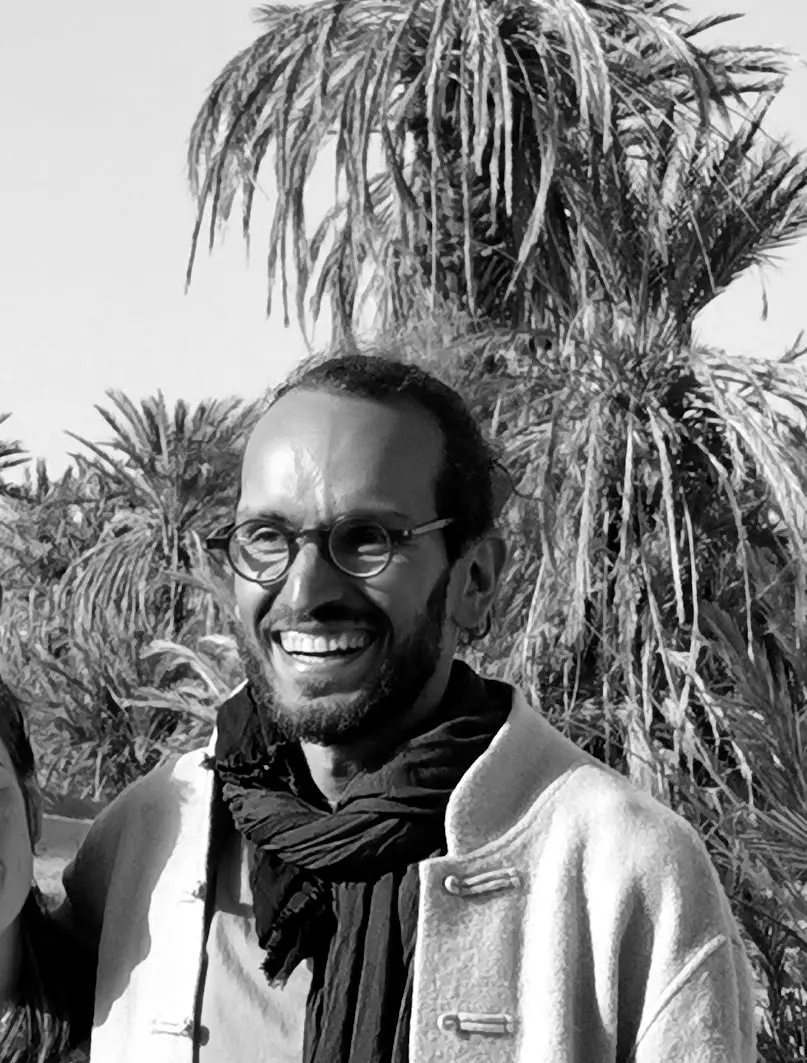
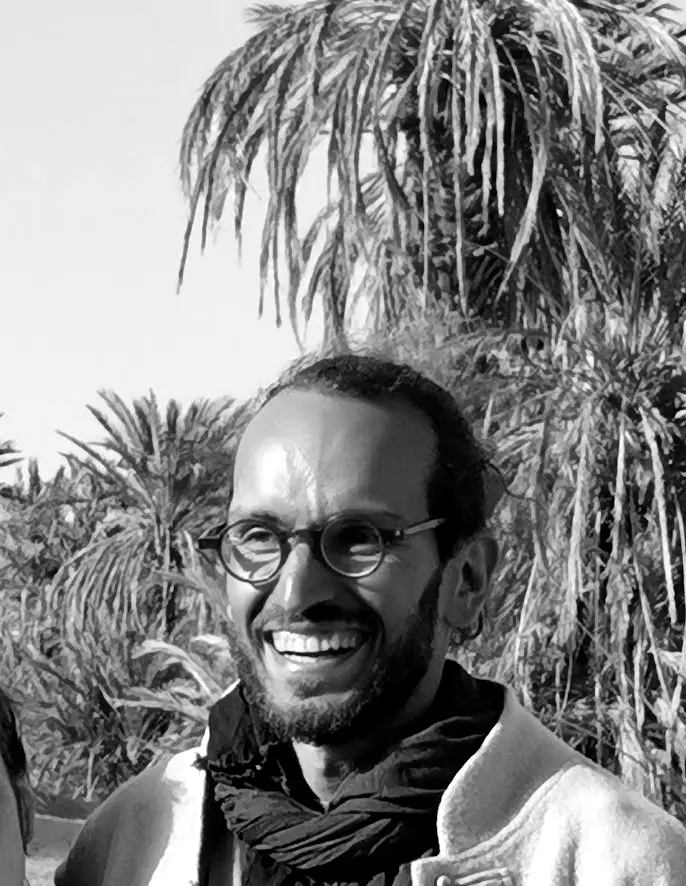
fix: marge noire mobile, burger menu, paddings réduits mobile, photo Anys recadrée

diff --git a/index.html b/index.html
@@ -1165,26 +1165,111 @@
       transform: translateY(0);
     }
 
+    /* BURGER MENU */
+    .burger {
+      display: none;
+      flex-direction: column;
+      gap: 5px;
+      cursor: pointer;
+      padding: 4px;
+      background: none;
+      border: none;
+    }
+    .burger span {
+      display: block;
+      width: 22px;
+      height: 2px;
+      background: var(--cream);
+      transition: all 0.3s ease;
+    }
+    .burger.open span:nth-child(1) { transform: translateY(7px) rotate(45deg); }
+    .burger.open span:nth-child(2) { opacity: 0; }
+    .burger.open span:nth-child(3) { transform: translateY(-7px) rotate(-45deg); }
+
+    .mobile-menu {
+      display: none;
+      position: fixed;
+      top: 64px; left: 0; right: 0;
+      background: rgba(10,9,5,0.98);
+      border-bottom: 1px solid var(--bark);
+      padding: 2rem 1.5rem;
+      z-index: 199;
+      flex-direction: column;
+      gap: 1.5rem;
+    }
+    .mobile-menu.open { display: flex; }
+    .mobile-menu a {
+      font-family: 'Garet', sans-serif;
+      font-size: 0.75rem;
+      letter-spacing: 0.2em;
+      text-transform: uppercase;
+      color: rgba(240,232,213,0.7);
+      text-decoration: none;
+      padding-bottom: 1rem;
+      border-bottom: 1px solid var(--bark);
+    }
+    .mobile-menu a:last-child { border-bottom: none; }
+
     /* RESPONSIVE */
     @media (max-width: 768px) {
-      nav { padding: 1.5rem; }
-      section { padding: 5rem 1.5rem; }
-      .intention { grid-template-columns: 1fr; gap: 3rem; }
-      .intention-aside { border-left: none; border-top: 1px solid var(--bark); padding-left: 0; padding-top: 3rem; }
-      .brotherhood-inner { grid-template-columns: 1fr; gap: 3rem; padding: 5rem 1.5rem; }
-      .ancestors-grid { grid-template-columns: 1fr; gap: 3rem; }
-      .programme-inner { padding: 5rem 1.5rem; }
+      html, body { overflow-x: hidden; width: 100%; }
+      section { padding: 3.5rem 1.5rem; }
+      .full-width { padding: 3.5rem 0; }
+      .section-nav { padding: 0 1.5rem; }
+      .section-nav-links { display: none; }
+      .section-nav-cta { display: none; }
+      .burger { display: flex; }
+
+      .hero { padding: 0 1.5rem 4rem; min-height: 100svh; }
+
+      .intention { grid-template-columns: 1fr; gap: 2rem; }
+      .intention-aside { border-left: none; border-top: 1px solid var(--bark); padding-left: 0; padding-top: 2rem; }
+
+      .brotherhood-inner { grid-template-columns: 1fr; gap: 2rem; padding: 3.5rem 1.5rem; }
+      .brotherhood-photo { display: none; }
+
+      .ancestors-grid { grid-template-columns: 1fr; gap: 2rem; }
+      .ancestors-inner { padding: 3.5rem 1.5rem; }
+
+      .programme-inner { padding: 3.5rem 1.5rem; }
       .programme-grid { grid-template-columns: 1fr; }
-      .programme-item:nth-child(even) { border-right: 1px solid var(--bark); }
-      .lieu-inner { grid-template-columns: 1fr; gap: 3rem; padding: 5rem 1.5rem; }
-      .accom-inner { padding: 5rem 1.5rem; }
+      .programme-item { border-right: 1px solid var(--bark); }
+
+      .who-inner { padding: 3.5rem 1.5rem 2rem; }
+      .who-grid { grid-template-columns: 1fr; gap: 2rem; }
+      .approach-inner { padding: 1.5rem 1.5rem 3.5rem; }
+      .approach-grid { grid-template-columns: 1fr; gap: 2rem; }
+
+      .lieu-inner { grid-template-columns: 1fr; gap: 2rem; padding: 3.5rem 1.5rem; }
+      .lieu-visual { aspect-ratio: 4/3; }
+
+      .accom-inner { padding: 3.5rem 1.5rem; }
       .accom-list { grid-template-columns: 1fr 1fr; }
-      .team-inner { padding: 5rem 1.5rem; }
-      .team-grid { grid-template-columns: 1fr 1fr; gap: 2rem; }
-      .pricing-inner { padding: 5rem 1.5rem; }
-      .pricing-grid { grid-template-columns: 1fr; }
-      .hero { padding: 0 1.5rem 5rem; }
+
+      .map-inner { grid-template-columns: 1fr; gap: 1.5rem; padding: 0 1.5rem 3rem; }
+      .map-embed { height: 280px; }
+
+      .team-inner { padding: 3.5rem 1.5rem; }
+      .team-grid { grid-template-columns: 1fr 1fr; gap: 1.5rem; }
+
+      .pricing-inner { padding: 3.5rem 1.5rem; }
+      .pricing-grid { grid-template-columns: 1fr; gap: 1rem; }
+
+      .about-banner { height: 45vh; }
+      .about-grid { grid-template-columns: 1fr; }
+      .about-photo { display: none; }
+
+      .inline-cta { flex-direction: column; gap: 1.5rem; padding: 2.5rem 1.5rem; }
+
+      .cta { padding: 8rem 1.5rem; }
+      .cta h2 { font-size: clamp(2rem, 8vw, 3.5rem); }
+
+      .values-grid { grid-template-columns: 1fr; }
+      .value-item { border-right: 1px solid var(--bark); }
+
       footer { flex-direction: column; gap: 1rem; text-align: center; padding: 2rem 1.5rem; }
+
+      .photo-strip { background-attachment: scroll; }
     }
   </style>
 </head>
@@ -1204,7 +1289,21 @@
       <a href="#about">About</a>
     </div>
     <a href="https://forms.gle/XGRRVMEsymQgbtJm9" target="_blank" class="section-nav-cta">Apply Now</a>
+    <button class="burger" id="burgerBtn" aria-label="Menu">
+      <span></span><span></span><span></span>
+    </button>
   </nav>
+
+  <!-- MOBILE MENU -->
+  <div class="mobile-menu" id="mobileMenu">
+    <a href="#intention" class="mobile-link">The Gathering</a>
+    <a href="#programme" class="mobile-link">Programme</a>
+    <a href="#venue" class="mobile-link">Venue</a>
+    <a href="#team" class="mobile-link">Team</a>
+    <a href="#pricing" class="mobile-link">Investment</a>
+    <a href="#about" class="mobile-link">About</a>
+    <a href="https://forms.gle/XGRRVMEsymQgbtJm9" target="_blank" style="color: var(--accent);">Apply Now</a>
+  </div>
 
   <!-- HERO -->
   <section class="hero full-width">
@@ -1630,6 +1729,20 @@
       });
     }, { threshold: 0.1, rootMargin: '0px 0px -50px 0px' });
     reveals.forEach(el => observer.observe(el));
+
+    // Burger menu
+    const burger = document.getElementById('burgerBtn');
+    const mobileMenu = document.getElementById('mobileMenu');
+    burger.addEventListener('click', () => {
+      burger.classList.toggle('open');
+      mobileMenu.classList.toggle('open');
+    });
+    document.querySelectorAll('.mobile-link').forEach(link => {
+      link.addEventListener('click', () => {
+        burger.classList.remove('open');
+        mobileMenu.classList.remove('open');
+      });
+    });
 
     // Navbar active section highlight
     const navLinks = document.querySelectorAll('.section-nav-links a');